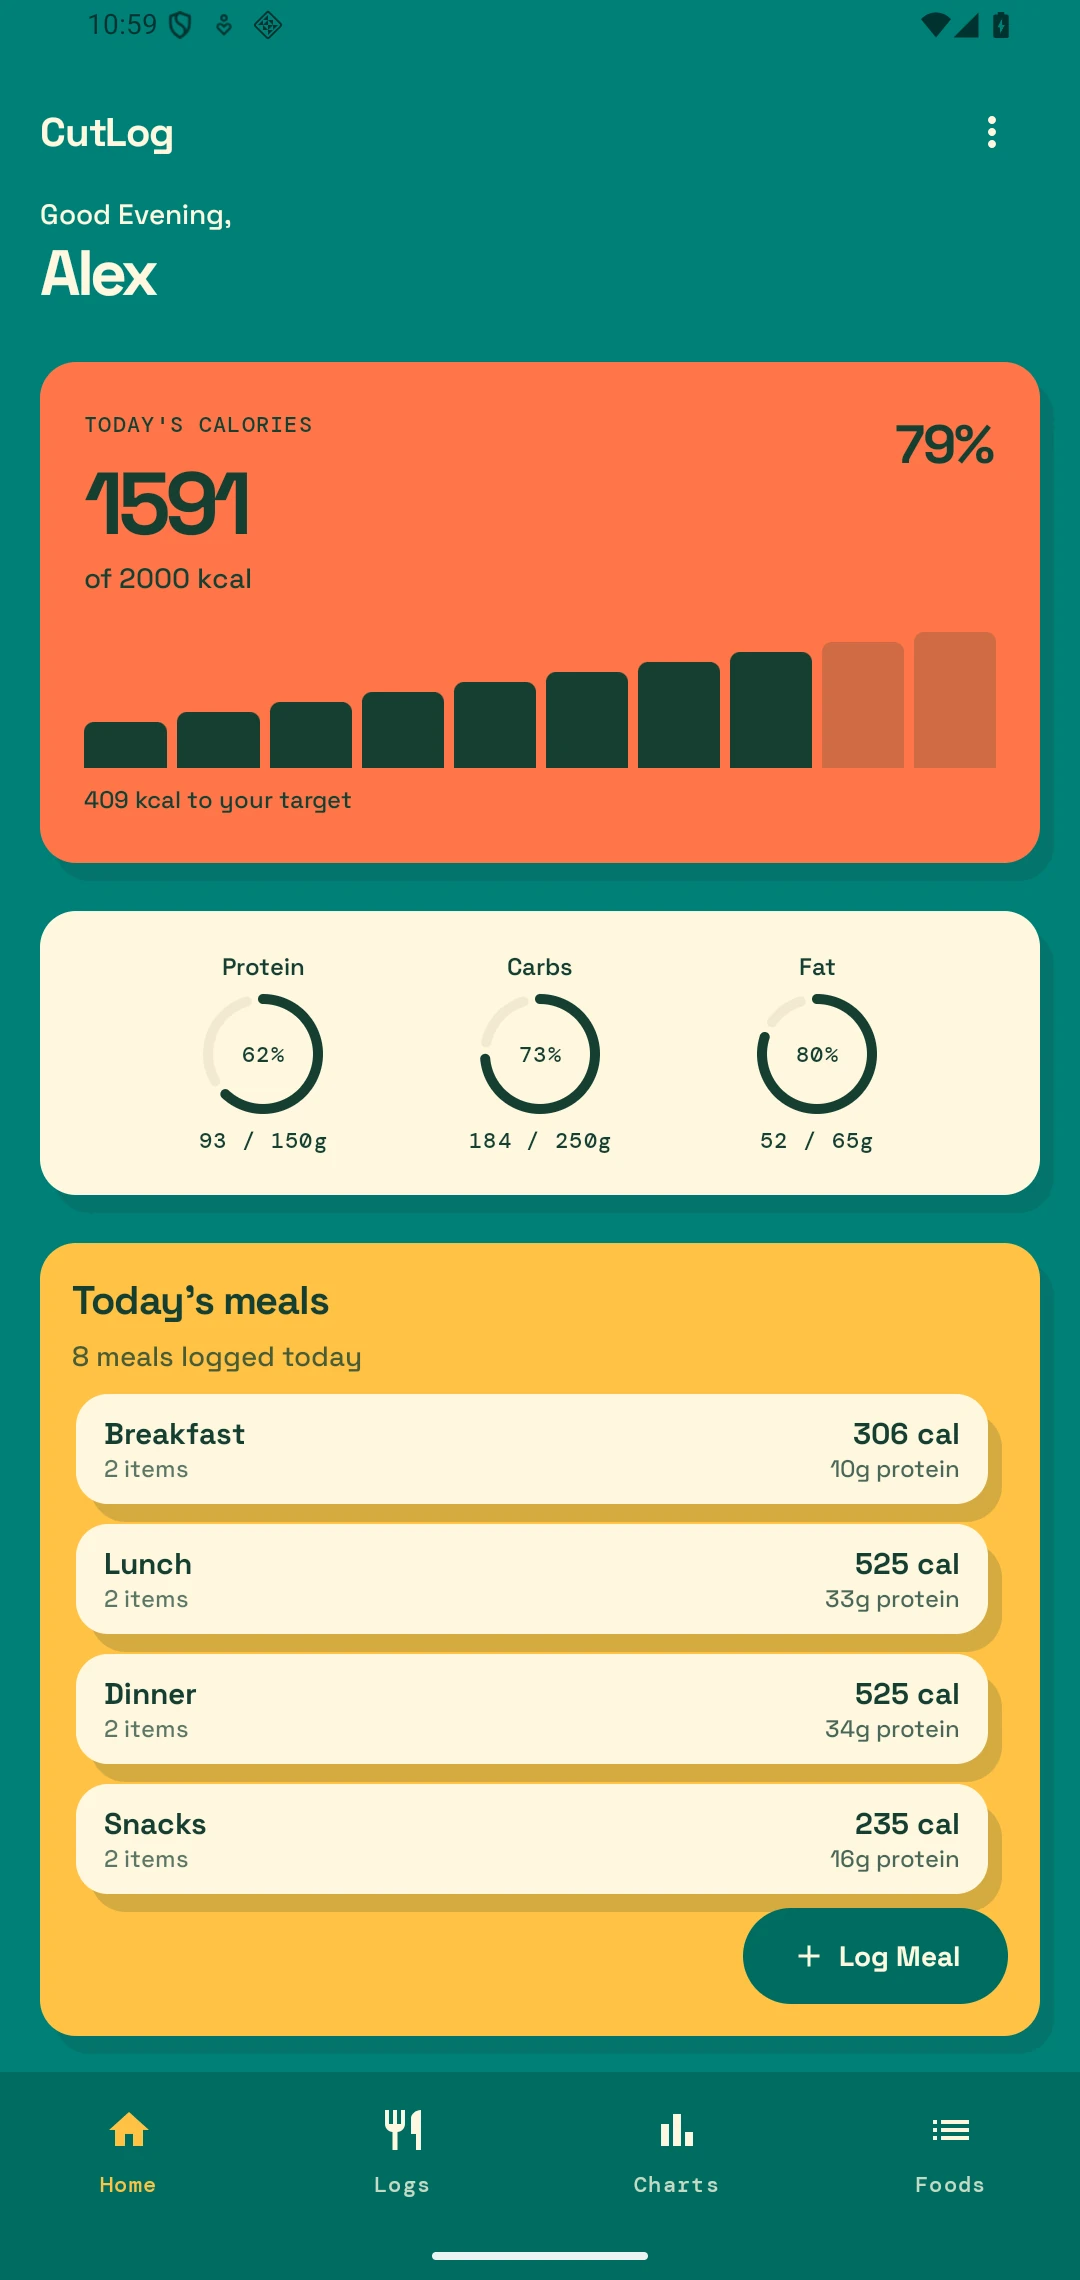
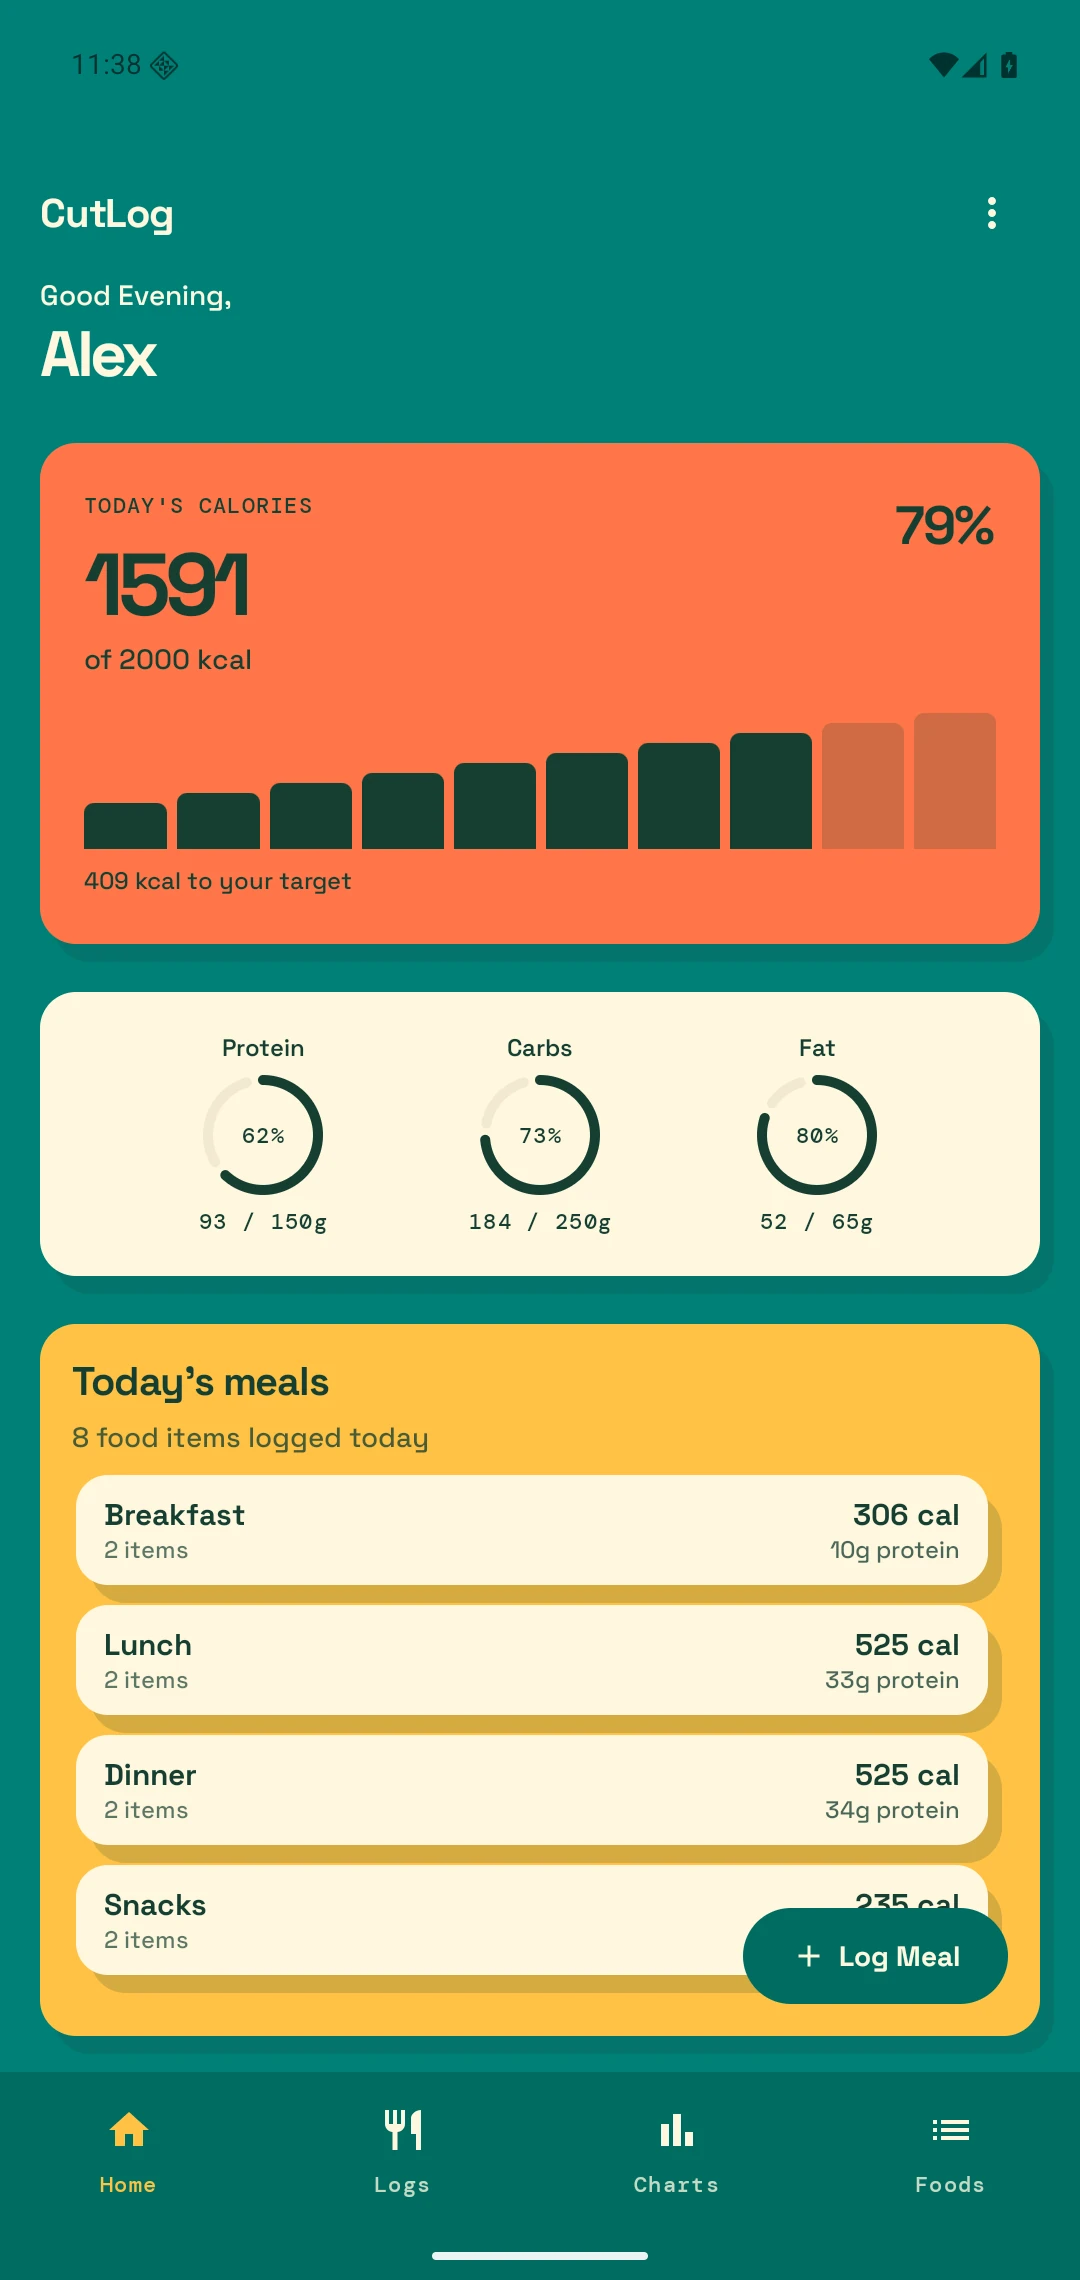
Link CutLog 1.0.1 and refresh dashboard capture

diff --git a/cutlog/index.html b/cutlog/index.html
@@ -27,7 +27,7 @@
           <h1>Log what<br>you eat.</h1>
           <p class="intro">From chicken adobo to your usual breakfast. Track calories and macros, set daily targets, and see how your weight changes over time.</p>
           <div class="hero-actions">
-            <a class="button" href="https://github.com/biiviid/CutLog/releases/download/v1.0/CutLog-v1.0.apk">Download for Android <span aria-hidden="true">↓</span></a>
+            <a class="button" href="https://github.com/biiviid/CutLog/releases/download/v1.0.1/CutLog-v1.0.1.apk">Download for Android <span aria-hidden="true">↓</span></a>
             <a href="#app">Explore the app</a>
           </div>
           <p class="apk-meta">APK · Android 8.0 and up</p>
@@ -35,7 +35,7 @@
         <div class="hero-art">
           <div class="sun" aria-hidden="true"></div>
           <div class="plate" aria-hidden="true"></div>
-          <img class="hero-phone" src="../cutSS/dashboard.webp" width="1080" height="2280" alt="CutLog dashboard showing calories, macro targets, and meal totals for a sample day.">
+          <img class="hero-phone" src="../cutSS/dashboard.webp?v=1.0.1" width="1080" height="2280" alt="CutLog dashboard showing calories, macro targets, and meal totals for a sample day.">
         </div>
       </div>
     </section>
